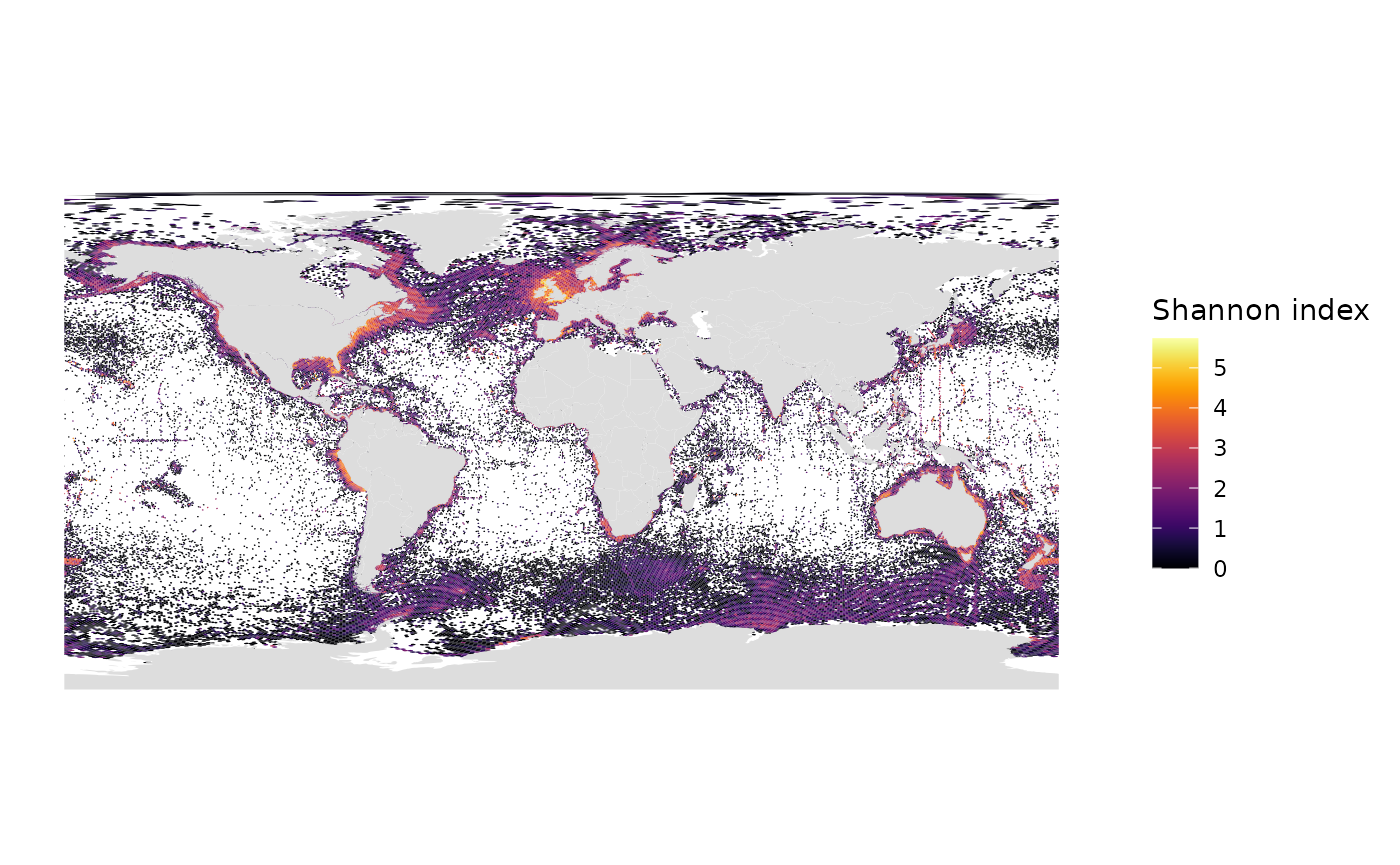
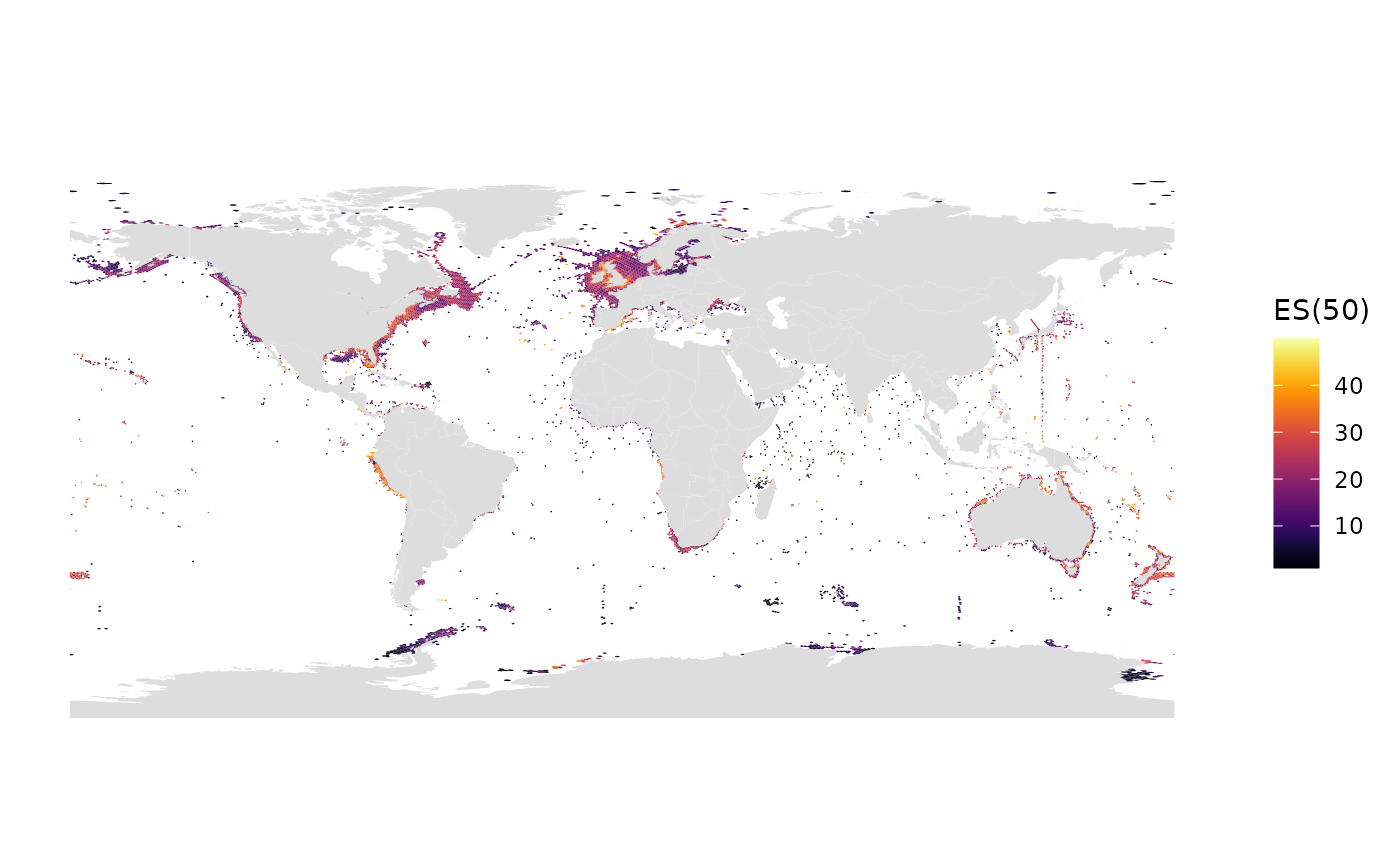
Built site for obisindicators: 0.0.1@9cb7076

Changed region(s): [[0.0307, 0.1873, 0.9829, 0.8428]]

diff --git a/articles/regional_diversity.html b/articles/regional_diversity.html
@@ -155,74 +155,19 @@
   <span class="fu"><a href="https://dplyr.tidyverse.org/reference/mutate-joins.html" class="external-link">left_join</a></span><span class="op">(</span>
     <span class="va">metrics</span>,
     by <span class="op">=</span> <span class="st">"cell"</span><span class="op">)</span></code></pre></div>
-<p>Let’s check the results by creating a Shannon index map:</p>
-<div class="sourceCode" id="cb8"><pre class="downlit sourceCode r">
-<code class="sourceCode R"><span class="kw"><a href="https://rdrr.io/r/base/library.html" class="external-link">library</a></span><span class="op">(</span><span class="va"><a href="https://github.com/ropenscilabs/rnaturalearth" class="external-link">rnaturalearth</a></span><span class="op">)</span>
-<span class="kw"><a href="https://rdrr.io/r/base/library.html" class="external-link">library</a></span><span class="op">(</span><span class="va"><a href="https://github.com/ropenscilabs/rnaturalearthdata" class="external-link">rnaturalearthdata</a></span><span class="op">)</span>
-<span class="kw"><a href="https://rdrr.io/r/base/library.html" class="external-link">library</a></span><span class="op">(</span><span class="va"><a href="https://sjmgarnier.github.io/viridis/" class="external-link">viridis</a></span><span class="op">)</span>
-<span class="kw"><a href="https://rdrr.io/r/base/library.html" class="external-link">library</a></span><span class="op">(</span><span class="va"><a href="https://ggplot2.tidyverse.org" class="external-link">ggplot2</a></span><span class="op">)</span>
-
-<span class="va">world</span> <span class="op">&lt;-</span> <span class="fu"><a href="https://rdrr.io/pkg/rnaturalearth/man/ne_countries.html" class="external-link">ne_countries</a></span><span class="op">(</span>scale <span class="op">=</span> <span class="st">"medium"</span>, returnclass <span class="op">=</span> <span class="st">"sf"</span><span class="op">)</span>
-<span class="va">bb</span> <span class="op">&lt;-</span> <span class="fu"><a href="https://r-spatial.github.io/sf/reference/st_bbox.html" class="external-link">st_bbox</a></span><span class="op">(</span><span class="va">grid</span><span class="op">)</span>
-
-<span class="fu"><a href="https://ggplot2.tidyverse.org/reference/ggplot.html" class="external-link">ggplot</a></span><span class="op">(</span><span class="op">)</span> <span class="op">+</span>
-  <span class="fu"><a href="https://ggplot2.tidyverse.org/reference/ggsf.html" class="external-link">geom_sf</a></span><span class="op">(</span>data <span class="op">=</span> <span class="va">grid</span>, <span class="fu"><a href="https://ggplot2.tidyverse.org/reference/aes_.html" class="external-link">aes_string</a></span><span class="op">(</span>fill <span class="op">=</span> <span class="st">"shannon"</span>, geometry <span class="op">=</span> <span class="st">"geometry"</span><span class="op">)</span>, lwd <span class="op">=</span> <span class="fl">0</span><span class="op">)</span> <span class="op">+</span>
-  <span class="fu"><a href="https://sjmgarnier.github.io/viridis/reference/scale_viridis.html" class="external-link">scale_fill_viridis</a></span><span class="op">(</span>option <span class="op">=</span> <span class="st">"inferno"</span>, na.value <span class="op">=</span> <span class="st">"white"</span>, name <span class="op">=</span> <span class="st">"Shannon index"</span><span class="op">)</span> <span class="op">+</span>
-  <span class="fu"><a href="https://ggplot2.tidyverse.org/reference/ggsf.html" class="external-link">geom_sf</a></span><span class="op">(</span>
-    data <span class="op">=</span> <span class="va">world</span>, fill <span class="op">=</span> <span class="st">"#dddddd"</span>, color <span class="op">=</span> <span class="cn">NA</span><span class="op">)</span> <span class="op">+</span>
-  <span class="fu"><a href="https://ggplot2.tidyverse.org/reference/theme.html" class="external-link">theme</a></span><span class="op">(</span>
-    panel.grid.major.x <span class="op">=</span> <span class="fu"><a href="https://ggplot2.tidyverse.org/reference/element.html" class="external-link">element_blank</a></span><span class="op">(</span><span class="op">)</span>, 
-    panel.grid.major.y <span class="op">=</span> <span class="fu"><a href="https://ggplot2.tidyverse.org/reference/element.html" class="external-link">element_blank</a></span><span class="op">(</span><span class="op">)</span>, 
-    panel.grid.minor.x <span class="op">=</span> <span class="fu"><a href="https://ggplot2.tidyverse.org/reference/element.html" class="external-link">element_blank</a></span><span class="op">(</span><span class="op">)</span>, 
-    panel.grid.minor.y <span class="op">=</span> <span class="fu"><a href="https://ggplot2.tidyverse.org/reference/element.html" class="external-link">element_blank</a></span><span class="op">(</span><span class="op">)</span>, 
-    panel.background <span class="op">=</span> <span class="fu"><a href="https://ggplot2.tidyverse.org/reference/element.html" class="external-link">element_blank</a></span><span class="op">(</span><span class="op">)</span>, 
-    axis.text.x <span class="op">=</span> <span class="fu"><a href="https://ggplot2.tidyverse.org/reference/element.html" class="external-link">element_blank</a></span><span class="op">(</span><span class="op">)</span>, 
-    axis.text.y <span class="op">=</span> <span class="fu"><a href="https://ggplot2.tidyverse.org/reference/element.html" class="external-link">element_blank</a></span><span class="op">(</span><span class="op">)</span>, 
-    axis.ticks <span class="op">=</span> <span class="fu"><a href="https://ggplot2.tidyverse.org/reference/element.html" class="external-link">element_blank</a></span><span class="op">(</span><span class="op">)</span>, 
-    axis.title.x <span class="op">=</span> <span class="fu"><a href="https://ggplot2.tidyverse.org/reference/element.html" class="external-link">element_blank</a></span><span class="op">(</span><span class="op">)</span>, 
-    axis.title.y <span class="op">=</span> <span class="fu"><a href="https://ggplot2.tidyverse.org/reference/element.html" class="external-link">element_blank</a></span><span class="op">(</span><span class="op">)</span><span class="op">)</span> <span class="op">+</span> 
-  <span class="fu"><a href="https://ggplot2.tidyverse.org/reference/labs.html" class="external-link">xlab</a></span><span class="op">(</span><span class="st">""</span><span class="op">)</span> <span class="op">+</span> <span class="fu"><a href="https://ggplot2.tidyverse.org/reference/labs.html" class="external-link">ylab</a></span><span class="op">(</span><span class="st">""</span><span class="op">)</span> <span class="op">+</span>
-  <span class="fu"><a href="https://ggplot2.tidyverse.org/reference/ggsf.html" class="external-link">coord_sf</a></span><span class="op">(</span>
-    xlim <span class="op">=</span> <span class="va">bb</span><span class="op">[</span><span class="fu"><a href="https://rdrr.io/r/base/c.html" class="external-link">c</a></span><span class="op">(</span><span class="st">"xmin"</span>,<span class="st">"xmax"</span><span class="op">)</span><span class="op">]</span>,
-    ylim <span class="op">=</span> <span class="va">bb</span><span class="op">[</span><span class="fu"><a href="https://rdrr.io/r/base/c.html" class="external-link">c</a></span><span class="op">(</span><span class="st">"ymin"</span>,<span class="st">"ymax"</span><span class="op">)</span><span class="op">]</span><span class="op">)</span></code></pre></div>
-<p><img src="regional_diversity_files/figure-html/map_gcs-1.png" width="700"></p>
 <div class="section level3">
-<h3 id="map-image">Map image<a class="anchor" aria-label="anchor" href="#map-image"></a>
+<h3 id="plot-maps">Plot maps<a class="anchor" aria-label="anchor" href="#plot-maps"></a>
 </h3>
-<p>This creates a high resolution PNG map image.</p>
+<p>Let’s look at the resulting metrics in map form.</p>
+<div class="sourceCode" id="cb8"><pre class="downlit sourceCode r">
+<code class="sourceCode R"><span class="fu"><a href="../reference/gmap_metric.html">gmap_metric</a></span><span class="op">(</span><span class="va">grid</span>, <span class="st">"es"</span>, label <span class="op">=</span> <span class="st">"ES(50)"</span><span class="op">)</span></code></pre></div>
+<p><img src="regional_diversity_files/figure-html/map_gcs-1.png" width="700"></p>
 <div class="sourceCode" id="cb9"><pre class="downlit sourceCode r">
-<code class="sourceCode R"><span class="fu"><a href="https://ggplot2.tidyverse.org/reference/ggplot.html" class="external-link">ggplot</a></span><span class="op">(</span><span class="op">)</span> <span class="op">+</span>
-  <span class="fu"><a href="https://ggplot2.tidyverse.org/reference/ggsf.html" class="external-link">geom_sf</a></span><span class="op">(</span>
-    <span class="fu"><a href="https://ggplot2.tidyverse.org/reference/aes_.html" class="external-link">aes_string</a></span><span class="op">(</span>fill <span class="op">=</span> <span class="st">"n"</span>, color <span class="op">=</span> <span class="st">"n"</span>, geometry <span class="op">=</span> <span class="st">"geometry"</span><span class="op">)</span>,
-    data <span class="op">=</span> <span class="va">grid</span>, lwd <span class="op">=</span> <span class="fl">0.04</span><span class="op">)</span> <span class="op">+</span>
-  <span class="fu"><a href="https://sjmgarnier.github.io/viridis/reference/scale_viridis.html" class="external-link">scale_color_viridis</a></span><span class="op">(</span>
-    option <span class="op">=</span> <span class="st">"inferno"</span>, na.value <span class="op">=</span> <span class="st">"white"</span>, 
-    name <span class="op">=</span> <span class="st">"Number of records"</span>, trans <span class="op">=</span> <span class="st">"log10"</span><span class="op">)</span> <span class="op">+</span>
-  <span class="fu"><a href="https://sjmgarnier.github.io/viridis/reference/scale_viridis.html" class="external-link">scale_fill_viridis</a></span><span class="op">(</span>
-    option <span class="op">=</span> <span class="st">"inferno"</span>, na.value <span class="op">=</span> <span class="st">"white"</span>, 
-    name <span class="op">=</span> <span class="st">"Number of records"</span>, trans <span class="op">=</span> <span class="st">"log10"</span><span class="op">)</span> <span class="op">+</span>
-  <span class="fu"><a href="https://ggplot2.tidyverse.org/reference/ggsf.html" class="external-link">geom_sf</a></span><span class="op">(</span>
-    data <span class="op">=</span> <span class="va">world</span>, fill <span class="op">=</span> <span class="st">"#dddddd"</span>, color <span class="op">=</span> <span class="st">"#666666"</span>, lwd <span class="op">=</span> <span class="fl">0.1</span><span class="op">)</span> <span class="op">+</span>
-  <span class="fu"><a href="https://ggplot2.tidyverse.org/reference/theme.html" class="external-link">theme</a></span><span class="op">(</span>
-    panel.grid.major.x <span class="op">=</span> <span class="fu"><a href="https://ggplot2.tidyverse.org/reference/element.html" class="external-link">element_blank</a></span><span class="op">(</span><span class="op">)</span>,
-    panel.grid.major.y <span class="op">=</span> <span class="fu"><a href="https://ggplot2.tidyverse.org/reference/element.html" class="external-link">element_blank</a></span><span class="op">(</span><span class="op">)</span>,
-    panel.grid.minor.x <span class="op">=</span> <span class="fu"><a href="https://ggplot2.tidyverse.org/reference/element.html" class="external-link">element_blank</a></span><span class="op">(</span><span class="op">)</span>,
-    panel.grid.minor.y <span class="op">=</span> <span class="fu"><a href="https://ggplot2.tidyverse.org/reference/element.html" class="external-link">element_blank</a></span><span class="op">(</span><span class="op">)</span>, 
-    panel.background <span class="op">=</span> <span class="fu"><a href="https://ggplot2.tidyverse.org/reference/element.html" class="external-link">element_blank</a></span><span class="op">(</span><span class="op">)</span>,
-    axis.text.x <span class="op">=</span> <span class="fu"><a href="https://ggplot2.tidyverse.org/reference/element.html" class="external-link">element_blank</a></span><span class="op">(</span><span class="op">)</span>,
-    axis.text.y <span class="op">=</span> <span class="fu"><a href="https://ggplot2.tidyverse.org/reference/element.html" class="external-link">element_blank</a></span><span class="op">(</span><span class="op">)</span>,
-    axis.ticks <span class="op">=</span> <span class="fu"><a href="https://ggplot2.tidyverse.org/reference/element.html" class="external-link">element_blank</a></span><span class="op">(</span><span class="op">)</span>,
-    axis.title.x <span class="op">=</span> <span class="fu"><a href="https://ggplot2.tidyverse.org/reference/element.html" class="external-link">element_blank</a></span><span class="op">(</span><span class="op">)</span>,
-    axis.title.y <span class="op">=</span> <span class="fu"><a href="https://ggplot2.tidyverse.org/reference/element.html" class="external-link">element_blank</a></span><span class="op">(</span><span class="op">)</span>,
-    legend.position <span class="op">=</span> <span class="st">"bottom"</span><span class="op">)</span> <span class="op">+</span>
-  <span class="fu"><a href="https://ggplot2.tidyverse.org/reference/labs.html" class="external-link">xlab</a></span><span class="op">(</span><span class="st">""</span><span class="op">)</span> <span class="op">+</span> <span class="fu"><a href="https://ggplot2.tidyverse.org/reference/labs.html" class="external-link">ylab</a></span><span class="op">(</span><span class="st">""</span><span class="op">)</span> <span class="op">+</span>
-  <span class="fu"><a href="https://ggplot2.tidyverse.org/reference/ggsf.html" class="external-link">coord_sf</a></span><span class="op">(</span>
-    crs <span class="op">=</span> <span class="st">"+proj=robin +lon_0=0 +x_0=0 +y_0=0 +ellps=WGS84 +datum=WGS84 +units=m +no_defs"</span>,
-    xlim <span class="op">=</span> <span class="va">bb</span><span class="op">[</span><span class="fu"><a href="https://rdrr.io/r/base/c.html" class="external-link">c</a></span><span class="op">(</span><span class="st">"xmin"</span>,<span class="st">"xmax"</span><span class="op">)</span><span class="op">]</span>,
-    ylim <span class="op">=</span> <span class="va">bb</span><span class="op">[</span><span class="fu"><a href="https://rdrr.io/r/base/c.html" class="external-link">c</a></span><span class="op">(</span><span class="st">"ymin"</span>,<span class="st">"ymax"</span><span class="op">)</span><span class="op">]</span><span class="op">)</span></code></pre></div>
-<p><img src="regional_diversity_files/figure-html/map_robin-1.png" width="700"></p>
+<code class="sourceCode R"><span class="fu"><a href="../reference/gmap_metric.html">gmap_metric</a></span><span class="op">(</span><span class="va">grid</span>, <span class="st">"shannon"</span>, label <span class="op">=</span> <span class="st">"Shannon index"</span><span class="op">)</span></code></pre></div>
+<p><img src="regional_diversity_files/figure-html/map_gcs-2.png" width="700"></p>
 <div class="sourceCode" id="cb10"><pre class="downlit sourceCode r">
-<code class="sourceCode R"><span class="co"># ggsave("map/map.png", width = 12, height = 6, dpi = 600)</span></code></pre></div>
+<code class="sourceCode R"><span class="fu"><a href="../reference/gmap_metric.html">gmap_metric</a></span><span class="op">(</span><span class="va">grid</span>, <span class="st">"n"</span>, label <span class="op">=</span> <span class="st">"# of records"</span>, trans <span class="op">=</span> <span class="st">"log10"</span><span class="op">)</span></code></pre></div>
+<p><img src="regional_diversity_files/figure-html/map_gcs-3.png" width="700"></p>
 </div>
 </div>
   </main><aside class="col-md-3"><nav id="toc"><h2>On this page</h2>

diff --git a/articles/obisindicators.html b/articles/obisindicators.html
@@ -155,72 +155,19 @@
   <span class="fu"><a href="https://dplyr.tidyverse.org/reference/mutate-joins.html" class="external-link">left_join</a></span><span class="op">(</span>
     <span class="va">metrics</span>,
     by <span class="op">=</span> <span class="st">"cell"</span><span class="op">)</span></code></pre></div>
-<p>Let’s check the results by creating a Shannon index map:</p>
-<div class="sourceCode" id="cb8"><pre class="downlit sourceCode r">
-<code class="sourceCode R"><span class="kw"><a href="https://rdrr.io/r/base/library.html" class="external-link">library</a></span><span class="op">(</span><span class="va"><a href="https://github.com/ropenscilabs/rnaturalearth" class="external-link">rnaturalearth</a></span><span class="op">)</span>
-<span class="kw"><a href="https://rdrr.io/r/base/library.html" class="external-link">library</a></span><span class="op">(</span><span class="va"><a href="https://github.com/ropenscilabs/rnaturalearthdata" class="external-link">rnaturalearthdata</a></span><span class="op">)</span>
-<span class="kw"><a href="https://rdrr.io/r/base/library.html" class="external-link">library</a></span><span class="op">(</span><span class="va"><a href="https://sjmgarnier.github.io/viridis/" class="external-link">viridis</a></span><span class="op">)</span>
-<span class="kw"><a href="https://rdrr.io/r/base/library.html" class="external-link">library</a></span><span class="op">(</span><span class="va"><a href="https://ggplot2.tidyverse.org" class="external-link">ggplot2</a></span><span class="op">)</span>
-
-<span class="va">world</span> <span class="op">&lt;-</span> <span class="fu"><a href="https://rdrr.io/pkg/rnaturalearth/man/ne_countries.html" class="external-link">ne_countries</a></span><span class="op">(</span>scale <span class="op">=</span> <span class="st">"medium"</span>, returnclass <span class="op">=</span> <span class="st">"sf"</span><span class="op">)</span>
-<span class="va">bb</span> <span class="op">&lt;-</span> <span class="fu"><a href="https://r-spatial.github.io/sf/reference/st_bbox.html" class="external-link">st_bbox</a></span><span class="op">(</span><span class="va">grid</span><span class="op">)</span>
-
-<span class="fu"><a href="https://ggplot2.tidyverse.org/reference/ggplot.html" class="external-link">ggplot</a></span><span class="op">(</span><span class="op">)</span> <span class="op">+</span>
-  <span class="fu"><a href="https://ggplot2.tidyverse.org/reference/ggsf.html" class="external-link">geom_sf</a></span><span class="op">(</span>data <span class="op">=</span> <span class="va">grid</span>, <span class="fu"><a href="https://ggplot2.tidyverse.org/reference/aes_.html" class="external-link">aes_string</a></span><span class="op">(</span>fill <span class="op">=</span> <span class="st">"shannon"</span>, geometry <span class="op">=</span> <span class="st">"geometry"</span><span class="op">)</span>, lwd <span class="op">=</span> <span class="fl">0</span><span class="op">)</span> <span class="op">+</span>
-  <span class="fu"><a href="https://sjmgarnier.github.io/viridis/reference/scale_viridis.html" class="external-link">scale_fill_viridis</a></span><span class="op">(</span>option <span class="op">=</span> <span class="st">"inferno"</span>, na.value <span class="op">=</span> <span class="st">"white"</span>, name <span class="op">=</span> <span class="st">"Shannon index"</span><span class="op">)</span> <span class="op">+</span>
-  <span class="fu"><a href="https://ggplot2.tidyverse.org/reference/ggsf.html" class="external-link">geom_sf</a></span><span class="op">(</span>
-    data <span class="op">=</span> <span class="va">world</span>, fill <span class="op">=</span> <span class="st">"#dddddd"</span>, color <span class="op">=</span> <span class="cn">NA</span><span class="op">)</span> <span class="op">+</span>
-  <span class="fu"><a href="https://ggplot2.tidyverse.org/reference/theme.html" class="external-link">theme</a></span><span class="op">(</span>
-    panel.grid.major.x <span class="op">=</span> <span class="fu"><a href="https://ggplot2.tidyverse.org/reference/element.html" class="external-link">element_blank</a></span><span class="op">(</span><span class="op">)</span>, 
-    panel.grid.major.y <span class="op">=</span> <span class="fu"><a href="https://ggplot2.tidyverse.org/reference/element.html" class="external-link">element_blank</a></span><span class="op">(</span><span class="op">)</span>, 
-    panel.grid.minor.x <span class="op">=</span> <span class="fu"><a href="https://ggplot2.tidyverse.org/reference/element.html" class="external-link">element_blank</a></span><span class="op">(</span><span class="op">)</span>, 
-    panel.grid.minor.y <span class="op">=</span> <span class="fu"><a href="https://ggplot2.tidyverse.org/reference/element.html" class="external-link">element_blank</a></span><span class="op">(</span><span class="op">)</span>, 
-    panel.background <span class="op">=</span> <span class="fu"><a href="https://ggplot2.tidyverse.org/reference/element.html" class="external-link">element_blank</a></span><span class="op">(</span><span class="op">)</span>, 
-    axis.text.x <span class="op">=</span> <span class="fu"><a href="https://ggplot2.tidyverse.org/reference/element.html" class="external-link">element_blank</a></span><span class="op">(</span><span class="op">)</span>, 
-    axis.text.y <span class="op">=</span> <span class="fu"><a href="https://ggplot2.tidyverse.org/reference/element.html" class="external-link">element_blank</a></span><span class="op">(</span><span class="op">)</span>, 
-    axis.ticks <span class="op">=</span> <span class="fu"><a href="https://ggplot2.tidyverse.org/reference/element.html" class="external-link">element_blank</a></span><span class="op">(</span><span class="op">)</span>, 
-    axis.title.x <span class="op">=</span> <span class="fu"><a href="https://ggplot2.tidyverse.org/reference/element.html" class="external-link">element_blank</a></span><span class="op">(</span><span class="op">)</span>, 
-    axis.title.y <span class="op">=</span> <span class="fu"><a href="https://ggplot2.tidyverse.org/reference/element.html" class="external-link">element_blank</a></span><span class="op">(</span><span class="op">)</span><span class="op">)</span> <span class="op">+</span> 
-  <span class="fu"><a href="https://ggplot2.tidyverse.org/reference/labs.html" class="external-link">xlab</a></span><span class="op">(</span><span class="st">""</span><span class="op">)</span> <span class="op">+</span> <span class="fu"><a href="https://ggplot2.tidyverse.org/reference/labs.html" class="external-link">ylab</a></span><span class="op">(</span><span class="st">""</span><span class="op">)</span> <span class="op">+</span>
-  <span class="fu"><a href="https://ggplot2.tidyverse.org/reference/ggsf.html" class="external-link">coord_sf</a></span><span class="op">(</span>
-    xlim <span class="op">=</span> <span class="va">bb</span><span class="op">[</span><span class="fu"><a href="https://rdrr.io/r/base/c.html" class="external-link">c</a></span><span class="op">(</span><span class="st">"xmin"</span>,<span class="st">"xmax"</span><span class="op">)</span><span class="op">]</span>,
-    ylim <span class="op">=</span> <span class="va">bb</span><span class="op">[</span><span class="fu"><a href="https://rdrr.io/r/base/c.html" class="external-link">c</a></span><span class="op">(</span><span class="st">"ymin"</span>,<span class="st">"ymax"</span><span class="op">)</span><span class="op">]</span><span class="op">)</span></code></pre></div>
-<p><img src="obisindicators_files/figure-html/map_gcs-1.png" width="700"></p>
 <div class="section level3">
-<h3 id="map-image">Map image<a class="anchor" aria-label="anchor" href="#map-image"></a>
+<h3 id="plot-maps">Plot maps<a class="anchor" aria-label="anchor" href="#plot-maps"></a>
 </h3>
-<p>This creates a high resolution PNG map image.</p>
+<p>Let’s look at the resulting metrics in map form.</p>
+<div class="sourceCode" id="cb8"><pre class="downlit sourceCode r">
+<code class="sourceCode R"><span class="fu"><a href="../reference/gmap_metric.html">gmap_metric</a></span><span class="op">(</span><span class="va">grid</span>, <span class="st">"es"</span>, label <span class="op">=</span> <span class="st">"ES(50)"</span><span class="op">)</span></code></pre></div>
+<p><img src="obisindicators_files/figure-html/map_gcs-1.png" width="700"></p>
 <div class="sourceCode" id="cb9"><pre class="downlit sourceCode r">
-<code class="sourceCode R"><span class="fu"><a href="https://ggplot2.tidyverse.org/reference/ggplot.html" class="external-link">ggplot</a></span><span class="op">(</span><span class="op">)</span> <span class="op">+</span>
-  <span class="fu"><a href="https://ggplot2.tidyverse.org/reference/ggsf.html" class="external-link">geom_sf</a></span><span class="op">(</span>
-    <span class="fu"><a href="https://ggplot2.tidyverse.org/reference/aes_.html" class="external-link">aes_string</a></span><span class="op">(</span>fill <span class="op">=</span> <span class="st">"n"</span>, color <span class="op">=</span> <span class="st">"n"</span>, geometry <span class="op">=</span> <span class="st">"geometry"</span><span class="op">)</span>,
-    data <span class="op">=</span> <span class="va">grid</span>, lwd <span class="op">=</span> <span class="fl">0.04</span><span class="op">)</span> <span class="op">+</span>
-  <span class="fu"><a href="https://sjmgarnier.github.io/viridis/reference/scale_viridis.html" class="external-link">scale_color_viridis</a></span><span class="op">(</span>
-    option <span class="op">=</span> <span class="st">"inferno"</span>, na.value <span class="op">=</span> <span class="st">"white"</span>, 
-    name <span class="op">=</span> <span class="st">"Number of records"</span>, trans <span class="op">=</span> <span class="st">"log10"</span><span class="op">)</span> <span class="op">+</span>
-  <span class="fu"><a href="https://sjmgarnier.github.io/viridis/reference/scale_viridis.html" class="external-link">scale_fill_viridis</a></span><span class="op">(</span>
-    option <span class="op">=</span> <span class="st">"inferno"</span>, na.value <span class="op">=</span> <span class="st">"white"</span>, 
-    name <span class="op">=</span> <span class="st">"Number of records"</span>, trans <span class="op">=</span> <span class="st">"log10"</span><span class="op">)</span> <span class="op">+</span>
-  <span class="fu"><a href="https://ggplot2.tidyverse.org/reference/ggsf.html" class="external-link">geom_sf</a></span><span class="op">(</span>
-    data <span class="op">=</span> <span class="va">world</span>, fill <span class="op">=</span> <span class="st">"#dddddd"</span>, color <span class="op">=</span> <span class="st">"#666666"</span>, lwd <span class="op">=</span> <span class="fl">0.1</span><span class="op">)</span> <span class="op">+</span>
-  <span class="fu"><a href="https://ggplot2.tidyverse.org/reference/theme.html" class="external-link">theme</a></span><span class="op">(</span>
-    panel.grid.major.x <span class="op">=</span> <span class="fu"><a href="https://ggplot2.tidyverse.org/reference/element.html" class="external-link">element_blank</a></span><span class="op">(</span><span class="op">)</span>,
-    panel.grid.major.y <span class="op">=</span> <span class="fu"><a href="https://ggplot2.tidyverse.org/reference/element.html" class="external-link">element_blank</a></span><span class="op">(</span><span class="op">)</span>,
-    panel.grid.minor.x <span class="op">=</span> <span class="fu"><a href="https://ggplot2.tidyverse.org/reference/element.html" class="external-link">element_blank</a></span><span class="op">(</span><span class="op">)</span>,
-    panel.grid.minor.y <span class="op">=</span> <span class="fu"><a href="https://ggplot2.tidyverse.org/reference/element.html" class="external-link">element_blank</a></span><span class="op">(</span><span class="op">)</span>, 
-    panel.background <span class="op">=</span> <span class="fu"><a href="https://ggplot2.tidyverse.org/reference/element.html" class="external-link">element_blank</a></span><span class="op">(</span><span class="op">)</span>,
-    axis.text.x <span class="op">=</span> <span class="fu"><a href="https://ggplot2.tidyverse.org/reference/element.html" class="external-link">element_blank</a></span><span class="op">(</span><span class="op">)</span>,
-    axis.text.y <span class="op">=</span> <span class="fu"><a href="https://ggplot2.tidyverse.org/reference/element.html" class="external-link">element_blank</a></span><span class="op">(</span><span class="op">)</span>,
-    axis.ticks <span class="op">=</span> <span class="fu"><a href="https://ggplot2.tidyverse.org/reference/element.html" class="external-link">element_blank</a></span><span class="op">(</span><span class="op">)</span>,
-    axis.title.x <span class="op">=</span> <span class="fu"><a href="https://ggplot2.tidyverse.org/reference/element.html" class="external-link">element_blank</a></span><span class="op">(</span><span class="op">)</span>,
-    axis.title.y <span class="op">=</span> <span class="fu"><a href="https://ggplot2.tidyverse.org/reference/element.html" class="external-link">element_blank</a></span><span class="op">(</span><span class="op">)</span>,
-    legend.position <span class="op">=</span> <span class="st">"bottom"</span><span class="op">)</span> <span class="op">+</span>
-  <span class="fu"><a href="https://ggplot2.tidyverse.org/reference/labs.html" class="external-link">xlab</a></span><span class="op">(</span><span class="st">""</span><span class="op">)</span> <span class="op">+</span> <span class="fu"><a href="https://ggplot2.tidyverse.org/reference/labs.html" class="external-link">ylab</a></span><span class="op">(</span><span class="st">""</span><span class="op">)</span> <span class="op">+</span>
-  <span class="fu"><a href="https://ggplot2.tidyverse.org/reference/ggsf.html" class="external-link">coord_sf</a></span><span class="op">(</span>
-    crs <span class="op">=</span> <span class="st">"+proj=robin +lon_0=0 +x_0=0 +y_0=0 +ellps=WGS84 +datum=WGS84 +units=m +no_defs"</span> <span class="op">)</span></code></pre></div>
-<p><img src="obisindicators_files/figure-html/map_robin-1.png" width="700"></p>
+<code class="sourceCode R"><span class="fu"><a href="../reference/gmap_metric.html">gmap_metric</a></span><span class="op">(</span><span class="va">grid</span>, <span class="st">"shannon"</span>, label <span class="op">=</span> <span class="st">"Shannon index"</span><span class="op">)</span></code></pre></div>
+<p><img src="obisindicators_files/figure-html/map_gcs-2.png" width="700"></p>
 <div class="sourceCode" id="cb10"><pre class="downlit sourceCode r">
-<code class="sourceCode R"><span class="co"># ggsave("map/map.png", width = 12, height = 6, dpi = 600)</span></code></pre></div>
+<code class="sourceCode R"><span class="fu"><a href="../reference/gmap_metric.html">gmap_metric</a></span><span class="op">(</span><span class="va">grid</span>, <span class="st">"n"</span>, label <span class="op">=</span> <span class="st">"# of records"</span>, trans <span class="op">=</span> <span class="st">"log10"</span><span class="op">)</span></code></pre></div>
+<p><img src="obisindicators_files/figure-html/map_gcs-3.png" width="700"></p>
 </div>
 </div>
   </main><aside class="col-md-3"><nav id="toc"><h2>On this page</h2>

diff --git a/reference/gmap_metric.html b/reference/gmap_metric.html
@@ -1,0 +1,115 @@
+<!DOCTYPE html>
+<!-- Generated by pkgdown: do not edit by hand --><html lang="en"><head><meta http-equiv="Content-Type" content="text/html; charset=UTF-8"><meta charset="utf-8"><meta http-equiv="X-UA-Compatible" content="IE=edge"><meta name="viewport" content="width=device-width, initial-scale=1, shrink-to-fit=no"><meta name="description" content="Statically map metrics using ggplot"><title>Statically map metrics using ggplot — gmap_metric • obisindicators</title><script src="../deps/jquery-3.6.0/jquery-3.6.0.min.js"></script><meta name="viewport" content="width=device-width, initial-scale=1, shrink-to-fit=no"><link href="../deps/bootstrap-5.1.0/bootstrap.min.css" rel="stylesheet"><script src="../deps/bootstrap-5.1.0/bootstrap.bundle.min.js"></script><!-- Font Awesome icons --><link rel="stylesheet" href="https://cdnjs.cloudflare.com/ajax/libs/font-awesome/5.12.1/css/all.min.css" integrity="sha256-mmgLkCYLUQbXn0B1SRqzHar6dCnv9oZFPEC1g1cwlkk=" crossorigin="anonymous"><link rel="stylesheet" href="https://cdnjs.cloudflare.com/ajax/libs/font-awesome/5.12.1/css/v4-shims.min.css" integrity="sha256-wZjR52fzng1pJHwx4aV2AO3yyTOXrcDW7jBpJtTwVxw=" crossorigin="anonymous"><!-- bootstrap-toc --><script src="https://cdn.rawgit.com/afeld/bootstrap-toc/v1.0.1/dist/bootstrap-toc.min.js"></script><!-- headroom.js --><script src="https://cdnjs.cloudflare.com/ajax/libs/headroom/0.11.0/headroom.min.js" integrity="sha256-AsUX4SJE1+yuDu5+mAVzJbuYNPHj/WroHuZ8Ir/CkE0=" crossorigin="anonymous"></script><script src="https://cdnjs.cloudflare.com/ajax/libs/headroom/0.11.0/jQuery.headroom.min.js" integrity="sha256-ZX/yNShbjqsohH1k95liqY9Gd8uOiE1S4vZc+9KQ1K4=" crossorigin="anonymous"></script><!-- clipboard.js --><script src="https://cdnjs.cloudflare.com/ajax/libs/clipboard.js/2.0.6/clipboard.min.js" integrity="sha256-inc5kl9MA1hkeYUt+EC3BhlIgyp/2jDIyBLS6k3UxPI=" crossorigin="anonymous"></script><!-- search --><script src="https://cdnjs.cloudflare.com/ajax/libs/fuse.js/6.4.6/fuse.js" integrity="sha512-zv6Ywkjyktsohkbp9bb45V6tEMoWhzFzXis+LrMehmJZZSys19Yxf1dopHx7WzIKxr5tK2dVcYmaCk2uqdjF4A==" crossorigin="anonymous"></script><script src="https://cdnjs.cloudflare.com/ajax/libs/autocomplete.js/0.38.0/autocomplete.jquery.min.js" integrity="sha512-GU9ayf+66Xx2TmpxqJpliWbT5PiGYxpaG8rfnBEk1LL8l1KGkRShhngwdXK1UgqhAzWpZHSiYPc09/NwDQIGyg==" crossorigin="anonymous"></script><script src="https://cdnjs.cloudflare.com/ajax/libs/mark.js/8.11.1/mark.min.js" integrity="sha512-5CYOlHXGh6QpOFA/TeTylKLWfB3ftPsde7AnmhuitiTX4K5SqCLBeKro6sPS8ilsz1Q4NRx3v8Ko2IBiszzdww==" crossorigin="anonymous"></script><!-- pkgdown --><script src="../pkgdown.js"></script><meta property="og:title" content="Statically map metrics using ggplot — gmap_metric"><meta property="og:description" content="Statically map metrics using ggplot"><!-- mathjax --><script src="https://cdnjs.cloudflare.com/ajax/libs/mathjax/2.7.5/MathJax.js" integrity="sha256-nvJJv9wWKEm88qvoQl9ekL2J+k/RWIsaSScxxlsrv8k=" crossorigin="anonymous"></script><script src="https://cdnjs.cloudflare.com/ajax/libs/mathjax/2.7.5/config/TeX-AMS-MML_HTMLorMML.js" integrity="sha256-84DKXVJXs0/F8OTMzX4UR909+jtl4G7SPypPavF+GfA=" crossorigin="anonymous"></script><!--[if lt IE 9]>
+<script src="https://oss.maxcdn.com/html5shiv/3.7.3/html5shiv.min.js"></script>
+<script src="https://oss.maxcdn.com/respond/1.4.2/respond.min.js"></script>
+<![endif]--></head><body>
+    <a href="#main" class="visually-hidden-focusable">Skip to contents</a>
+    
+
+    <nav class="navbar fixed-top navbar-light navbar-expand-lg bg-light"><div class="container">
+    
+    <a class="navbar-brand me-2" href="../index.html">obisindicators</a>
+
+    <small class="nav-text text-muted me-auto" data-bs-toggle="tooltip" data-bs-placement="bottom" title="">0.0.1</small>
+
+    
+    <button class="navbar-toggler" type="button" data-bs-toggle="collapse" data-bs-target="#navbar" aria-controls="navbar" aria-expanded="false" aria-label="Toggle navigation">
+      <span class="navbar-toggler-icon"></span>
+    </button>
+
+    <div id="navbar" class="collapse navbar-collapse ms-3">
+      <ul class="navbar-nav me-auto"><li class="nav-item">
+  <a class="nav-link" href="../articles/obisindicators.html">Get started</a>
+</li>
+<li class="active nav-item">
+  <a class="nav-link" href="../reference/index.html">Reference</a>
+</li>
+<li class="nav-item dropdown">
+  <a href="#" class="nav-link dropdown-toggle" data-bs-toggle="dropdown" role="button" aria-expanded="false" aria-haspopup="true" id="dropdown-articles">Articles</a>
+  <div class="dropdown-menu" aria-labelledby="dropdown-articles">
+    <a class="dropdown-item" href="../articles/regional_diversity.html">Map Regional Diversity</a>
+  </div>
+</li>
+<li class="nav-item">
+  <a class="nav-link" href="../news/index.html">Changelog</a>
+</li>
+      </ul><form class="form-inline my-2 my-lg-0" role="search">
+        <input type="search" class="form-control me-sm-2" aria-label="Toggle navigation" name="search-input" data-search-index="../search.json" id="search-input" placeholder="Search for" autocomplete="off"></form>
+
+      <ul class="navbar-nav"><li class="nav-item">
+  <a class="external-link nav-link" href="https://github.com/marinebon/obisindicators/" aria-label="github">
+    <span class="fab fa fab fa-github fa-lg"></span>
+     
+  </a>
+</li>
+      </ul></div>
+
+    
+  </div>
+</nav><div class="container template-reference-topic">
+<div class="row">
+  <main id="main" class="col-md-9"><div class="page-header">
+      <img src="" class="logo" alt=""><h1>Statically map metrics using ggplot</h1>
+      <small class="dont-index">Source: <a href="https://github.com/marinebon/obisindicators/blob/HEAD/R/visualize.R" class="external-link"><code>R/visualize.R</code></a></small>
+      <div class="d-none name"><code>gmap_metric.Rd</code></div>
+    </div>
+
+    <div class="ref-description section level2">
+    <p>Statically map metrics using ggplot</p>
+    </div>
+
+    <div class="section level2">
+    <h2 id="ref-usage">Usage<a class="anchor" aria-label="anchor" href="#ref-usage"></a></h2>
+    <div class="sourceCode"><pre class="sourceCode r"><code><span class="fu">gmap_metric</span><span class="op">(</span>
+  <span class="va">grid</span>,
+  column <span class="op">=</span> <span class="st">"shannon"</span>,
+  label <span class="op">=</span> <span class="st">"Shannon index"</span>,
+  trans <span class="op">=</span> <span class="st">"identity"</span>,
+ 
+    crs <span class="op">=</span> <span class="st">"+proj=robin +lon_0=0 +x_0=0 +y_0=0 +ellps=WGS84 +datum=WGS84 +units=m +no_defs"</span>
+<span class="op">)</span></code></pre></div>
+    </div>
+
+    <div class="section level2">
+    <h2 id="arguments">Arguments<a class="anchor" aria-label="anchor" href="#arguments"></a></h2>
+    <dl><dt>grid</dt>
+<dd><p>spatial features, e.g. hexagons, to plot; requires a geometry
+spatial column</p></dd>
+<dt>column</dt>
+<dd><p>column name with metric; default="shannon"</p></dd>
+<dt>label</dt>
+<dd><p>label to show on legend</p></dd>
+<dt>trans</dt>
+<dd><p>For continuous scales, the name of a transformation object or
+the object itself. Built-in transformations include "asn", "atanh",
+"boxcox", "date", "exp", "hms", "identity" (default), "log", "log10", "log1p",
+"log2", "logit", "modulus", "probability", "probit", "pseudo_log",
+"reciprocal", "reverse", "sqrt" and "time". See <code><a href="https://ggplot2.tidyverse.org/reference/continuous_scale.html" class="external-link">ggplot2::continuous_scale</a></code></p></dd>
+<dt>crs</dt>
+<dd><p>coordinate reference system; see <code><a href="https://r-spatial.github.io/sf/reference/st_crs.html" class="external-link">sf::st_crs()</a></code></p></dd>
+</dl></div>
+    <div class="section level2">
+    <h2 id="value">Value<a class="anchor" aria-label="anchor" href="#value"></a></h2>
+    <p>ggplot2 plot</p>
+    </div>
+
+  </main><aside class="col-md-3"><nav id="toc"><h2>On this page</h2>
+    </nav></aside></div>
+
+
+    <footer><div class="pkgdown-footer-left">
+  <p></p><p>Developed by Ben Ben, Pieter Provoost, Tylar Murray.</p>
+</div>
+
+<div class="pkgdown-footer-right">
+  <p></p><p>Site built with <a href="https://pkgdown.r-lib.org/" class="external-link">pkgdown</a> 2.0.3.</p>
+</div>
+
+    </footer></div>
+
+  
+
+  
+
+  </body></html>
+

diff --git a/index.html b/index.html
@@ -88,6 +88,7 @@
 <div class="section level2">
 <h2 id="developer-setup">Developer Setup<a class="anchor" aria-label="anchor" href="#developer-setup"></a>
 </h2>
+<p>You will likely need <a href="https://cran.r-project.org/bin/windows/Rtools/" class="external-link">Rtools</a> to install the <code>dggridr</code> dependency. Rtools is installed separately from R and Rstudio.</p>
 <div class="sourceCode" id="cb3"><pre class="downlit sourceCode r">
 <code class="sourceCode R"><span class="fu">devtools</span><span class="fu">::</span><span class="fu">install_local</span><span class="op">(</span><span class="op">)</span>
 <span class="fu">testthat</span><span class="fu">::</span><span class="fu"><a href="https://testthat.r-lib.org/reference/test_package.html" class="external-link">test_local</a></span><span class="op">(</span><span class="op">)</span></code></pre></div>

diff --git a/reference/index.html b/reference/index.html
@@ -91,8 +91,12 @@
       
       
 
-      
-    </div><div class="section level2">
+      <dl><dt>
+          
+          <code><a href="gmap_metric.html">gmap_metric()</a></code> 
+        </dt>
+        <dd>Statically map metrics using ggplot</dd>
+      </dl></div><div class="section level2">
       <h2 id="data">Data<a class="anchor" aria-label="anchor" href="#data"></a></h2>
       
       <p class="section-desc"></p><p>Locally available datasets for running examples</p>
